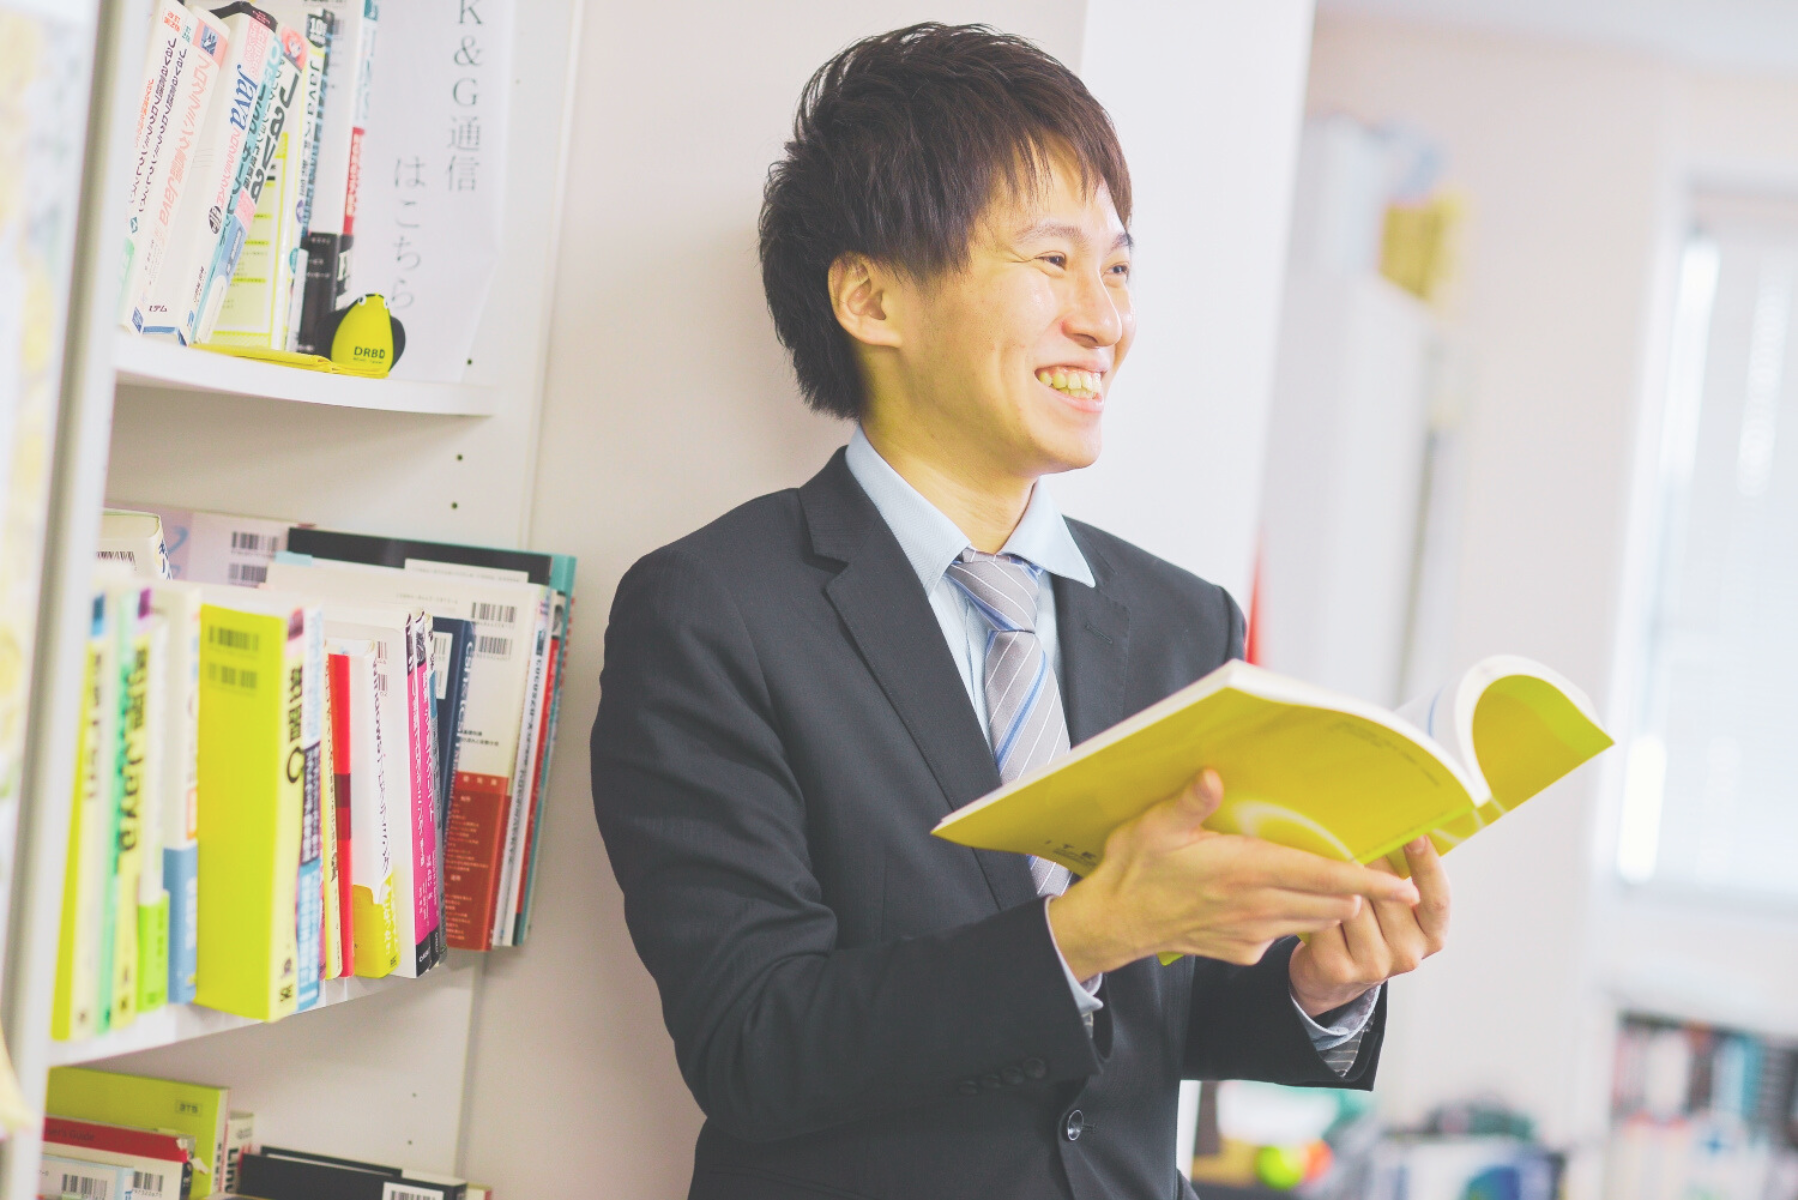
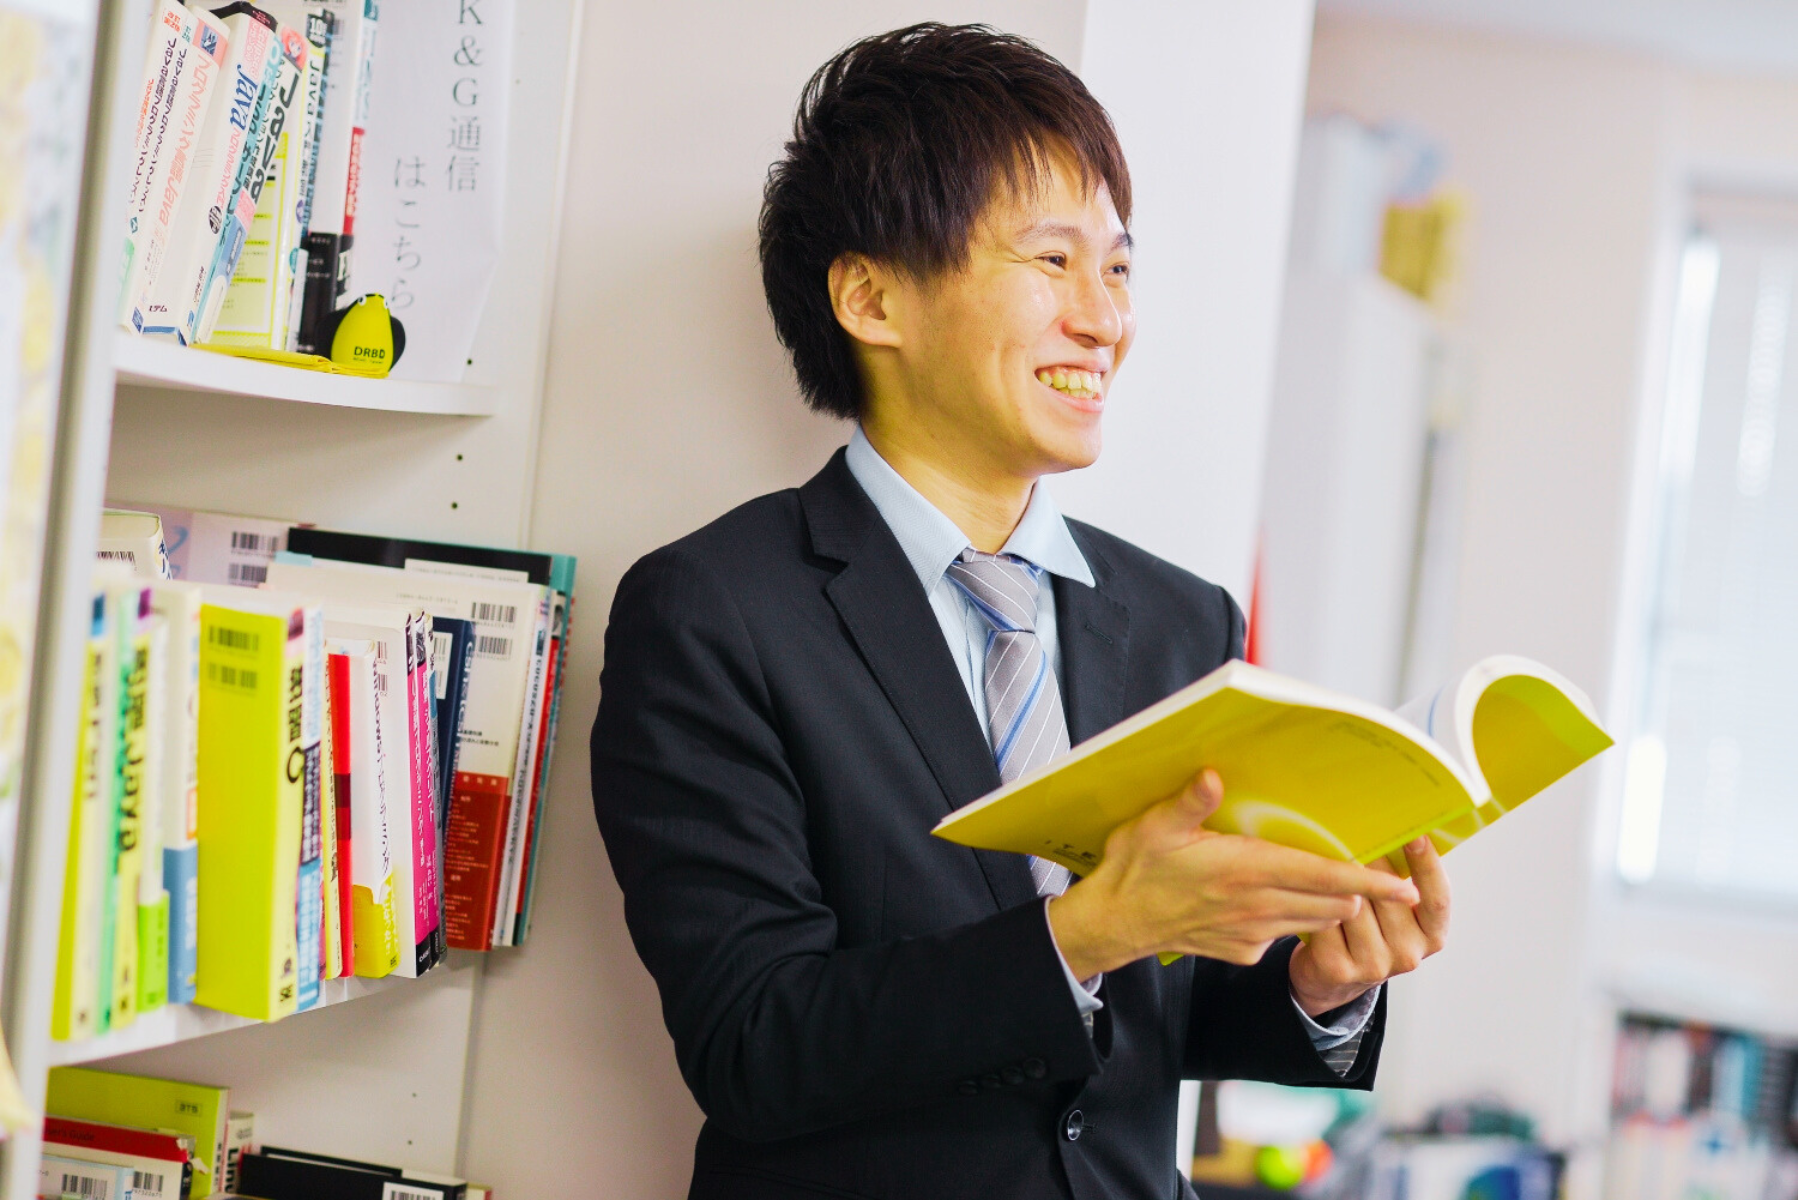
・採用top：写真を差し替え ・cssアニメーション修正：上移動アニメーションが未適用状態であった。 ・20th画像を差し替え

diff --git a/website/contents/anniversary/20th.html b/website/contents/anniversary/20th.html
@@ -114,7 +114,7 @@
               <p>CONTACT</p>
             </a>
           </ul>
-          </li>
+        </li>
         <!-- End Navbar -->
       </div>
     </nav>
@@ -128,7 +128,6 @@
         <div class="content-center">
           <div class="container screen_transition">
             <h1 class="header_line">K&G 20th Anniversary</h1>
-            <!-- <h5 class="header_line wf-sawarabigothic">20周年記念</h5> -->
           </div>
         </div>
       </div>
@@ -269,7 +268,7 @@
               <div class="cd-timeline__item_title">
                 <h2>設立15周年</h2>
                 <p class="detail">
-                  15周年を記念して、社員旅行では熊本・長崎へ。
+                  Ｋ＆Ｇ設立15周年を記念して、社員旅行では熊本・長崎へ。
                 </p>
               </div>
             </div>
@@ -287,7 +286,7 @@
               <div class="cd-timeline__item_title">
                 <h2>設立20周年</h2>
                 <p class="detail">
-                  20周年を記念して、翌年20周年記念パーティーを開催。
+                  Ｋ＆Ｇ設立20周年を記念して、20周年記念パーティーを開催予定！
                 </p>
               </div>
             </div>

diff --git a/website/assets/css/animation.css b/website/assets/css/animation.css
@@ -104,31 +104,31 @@
 }
 /* トリガー発火でis-activeを付与 */
 .u-fade-type-up-1.is-active {
-    transition: opacity 1.6s, transition 1.6s;
+    transition: opacity 1.6s, transform 1.6s;
     transform: translateY(0);
     opacity: 1;
 }
 
 .u-fade-type-up-1.is-active.anim-delay1 {
-    transition: opacity 1.6s, transition 1.6s;
+    transition: opacity 1.6s, transform 1.6s;
     transition-delay: 0.2s,;
     transform: translateY(0);
     opacity: 1;
 }
 .u-fade-type-up-1.is-active.anim-delay2 {
-    transition: opacity 1.6s, transition 1.6s;
+    transition: opacity 1.6s, transform 1.6s;
     transition-delay: 0.4s;
     transform: translateY(0);
     opacity: 1;
 }
 .u-fade-type-up-1.is-active.anim-delay3 {
-    transition: opacity 1.6s, transition 1.6s;
+    transition: opacity 1.6s, transform 1.6s;
     transition-delay: 0.6s;
     transform: translateY(0);
     opacity: 1;
 }
 .u-fade-type-up-1.is-active.anim-delay4 {
-    transition: opacity 1.6s, transition 1.6s;
+    transition: opacity 1.6s, transform 1.6s;
     transition-delay: 0.8s;
     transform: translateY(0);
     opacity: 1;
